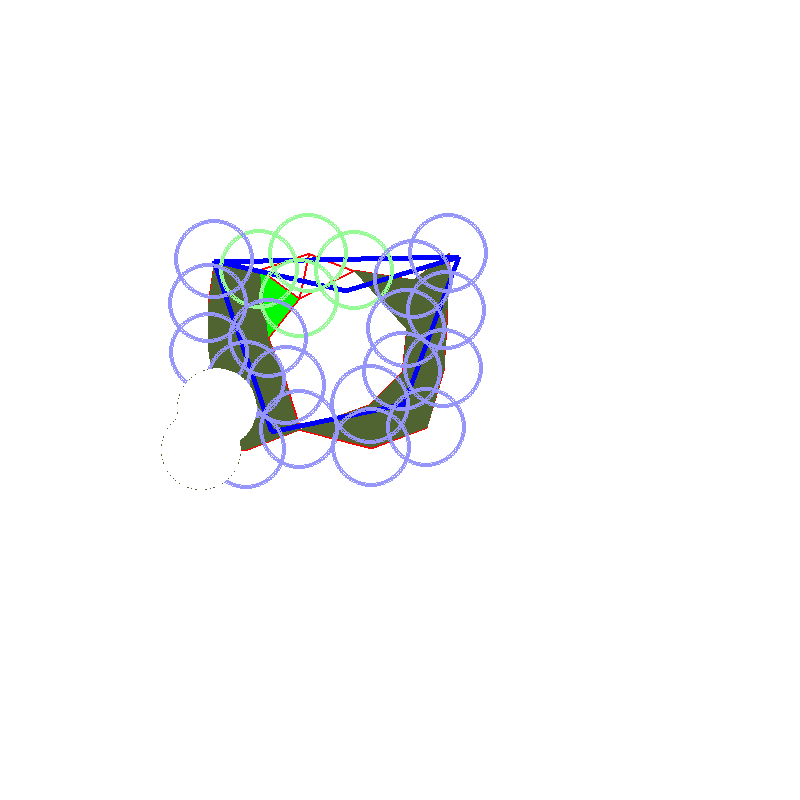
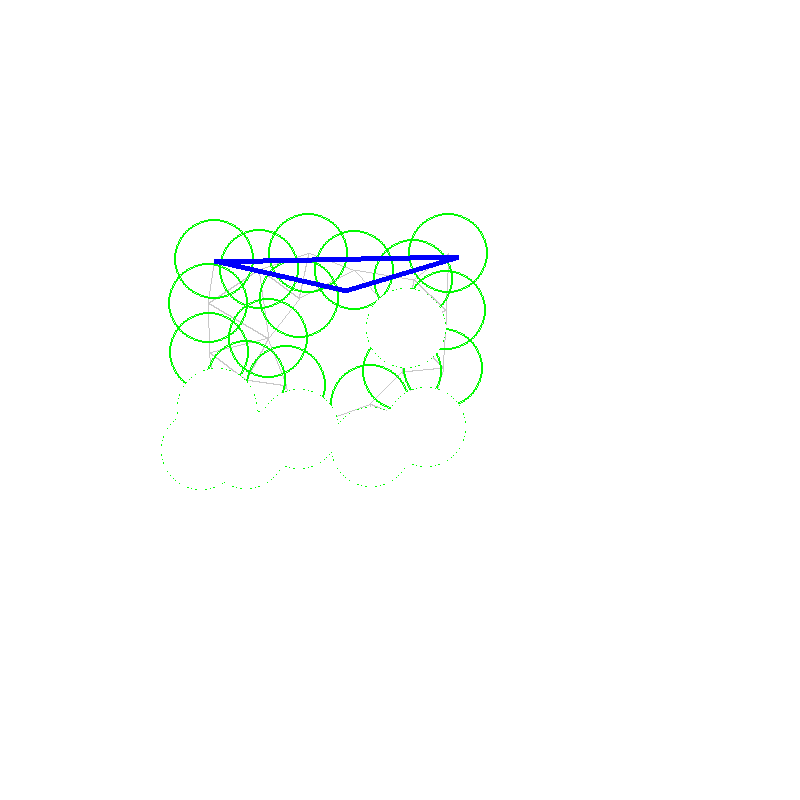
A bug hard to find is fixed somehow.
Bug was: Less triangles are added to the merged component

diff --git a/alphashape/Contraction.py b/alphashape/Contraction.py
@@ -149,6 +149,7 @@ class Component:
 
 		del self.spheres[sphere];
 
+		print "Add {0} new triangles".format(len(new_triangles))
 		return new_edges, new_triangles;
 
 	def merge(self, other, edge_tri_dict, sphere_tri_dict):
@@ -211,14 +212,14 @@ class Component:
 					continue;
 				pygame.draw.circle(surf, (0,0,255), (int(sphere.center[0]), int(sphere.center[1])), int(sphere.radius));
 				pygame.display.update()
-				time.sleep(1)
+				time.sleep(0.3)
 				if self.remove_sphere(sphere, betti, edge_tri_dict, sphere_tri_dict):
 					betti = self.betti_number(edge_tri_dict);
 					print betti
 					remove_one = True;
 					pygame.draw.circle(surf, (255,255,255), (int(sphere.center[0]), int(sphere.center[1])), int(sphere.radius));
 					pygame.display.update();
-					time.sleep(1);
+					time.sleep(0.3);
 		return betti;
 
 	def add_sphere(self, sphere, edge_tri_dict, sphere_tri_dict, surf):
@@ -244,23 +245,23 @@ class Component:
 			if not valid:
 				continue;
 			new_triangles[tri] = 1;
-			draw_triangle(tri, surf, (0,250,0));
-			pygame.display.update();
+			#draw_triangle(tri, surf, (0,250,0));
+			#pygame.display.update();
 
 			# add edges of the triangle to our component
 			for v1, v2 in tri.edges():
 				if (not self.edge_set.has_key((v1, v2)) and not self.edge_set.has_key((v2, v1))) and ( not new_edges.has_key( (v2, v1)) and not new_edges.has_key( (v2, v1) ) ):
 					new_edges[ (v1, v2) ] = 1;
-					pygame.draw.line( surf, (255,0,0), (int(v1.center[0]),int(v1.center[1])), (int(v2.center[0]),int(v2.center[1])), 2 )
-					pygame.display.update();
+					#pygame.draw.line( surf, (255,0,0), (int(v1.center[0]),int(v1.center[1])), (int(v2.center[0]),int(v2.center[1])), 2 )
+					#pygame.display.update();
 
 		# Get new edges that might be added to the component
 		for ball in self.spheres.keys(): 			# This step could be slow!!! (If the component has too many spheres already)
 			if ball.intersects(sphere) and not new_edges.has_key((ball, sphere)) and not new_edges.has_key((sphere,ball)):
 				if edge_tri_dict.has_key( (ball, sphere) ) or edge_tri_dict.has_key((sphere, ball)):
 					new_edges[(ball, sphere)] = 1;
-					pygame.draw.line( surf, (255,0,0), (int(ball.center[0]),int(ball.center[1])), (int(sphere.center[0]),int(sphere.center[1])), 2 )
-					pygame.display.update();
+					#pygame.draw.line( surf, (255,0,0), (int(ball.center[0]),int(ball.center[1])), (int(sphere.center[0]),int(sphere.center[1])), 2 )
+					#pygame.display.update();
 		
 
 		# Now we have distinct new edges and new triangles while add a new sphere
@@ -287,9 +288,9 @@ class Component:
 		for sphere in self.get_spheres():
 			pygame.draw.circle( surf, color, (int(sphere.center[0]), int(sphere.center[1])), int(sphere.radius), 2 );
 		
-		for triangle in self.triangle_set.keys():
-			points = [ (int(triangle.spheres[0].center[0]), int(triangle.spheres[0].center[1]) ), (int(triangle.spheres[1].center[0]), int(triangle.spheres[1].center[1]) ), ( int(triangle.spheres[2].center[0]), int(triangle.spheres[2].center[1] )) ];
-			pygame.draw.polygon(surf, color, points, 0);
+		#for triangle in self.triangle_set.keys():
+		#	points = [ (int(triangle.spheres[0].center[0]), int(triangle.spheres[0].center[1]) ), (int(triangle.spheres[1].center[0]), int(triangle.spheres[1].center[1]) ), ( int(triangle.spheres[2].center[0]), int(triangle.spheres[2].center[1] )) ];
+		#	pygame.draw.polygon(surf, color, points, 0);
 		pass;	
 
 class Contraction:

diff --git a/topology/Contraction_test.py b/topology/Contraction_test.py
@@ -95,7 +95,7 @@ def main():
 	components = contractor.contract(triangle_set, edge_tri_dict, sphere_tri_dict);
 
 	print "Got {0} component(s)".format(len(components))
-
+	'''
 	i = 1;
 	for comp in components:
 		color = (160/len(components) * i, 200/len(components) * i, 100/len(components) * i );
@@ -104,8 +104,8 @@ def main():
 		i+=1
 
 	pygame.display.update();
-
-
+	#time.sleep(5);
+	'''
 
 	##################################################
 	######        Contruct Path
@@ -119,11 +119,12 @@ def main():
 
 	draw_path(DISPLAYSURF, (0,0,250), path1);
 	draw_path(DISPLAYSURF, (0,0,250), path2);
-	draw_path(DISPLAYSURF, (0,0,250), path3);
-	draw_circles(DISPLAYSURF, (250, 150, 150), untouchable1);
-	draw_circles(DISPLAYSURF, (150, 250, 150), untouchable2);
-	draw_circles(DISPLAYSURF, (150, 150, 250), untouchable3);
+	#draw_path(DISPLAYSURF, (0,0,250), path3);
+	#draw_circles(DISPLAYSURF, (250, 150, 150), untouchable1);
+	#draw_circles(DISPLAYSURF, (150, 250, 150), untouchable2);
+	#draw_circles(DISPLAYSURF, (150, 150, 250), untouchable3);
 	pygame.display.update();
+	time.sleep(1);
 	#pygame.image.save(DISPLAYSURF, "homotopy.PNG")
 	#return;
 	
@@ -135,7 +136,7 @@ def main():
 	untouchable = {}
 	for s in untouchable1:
 		untouchable[s] = 1;
-	for s in untouchable3:
+	for s in untouchable2:
 		untouchable[s] = 1;
 
 	betti = new_comp.remove_spheres(untouchable, edge_tri_dict, sphere_tri_dict, DISPLAYSURF);
